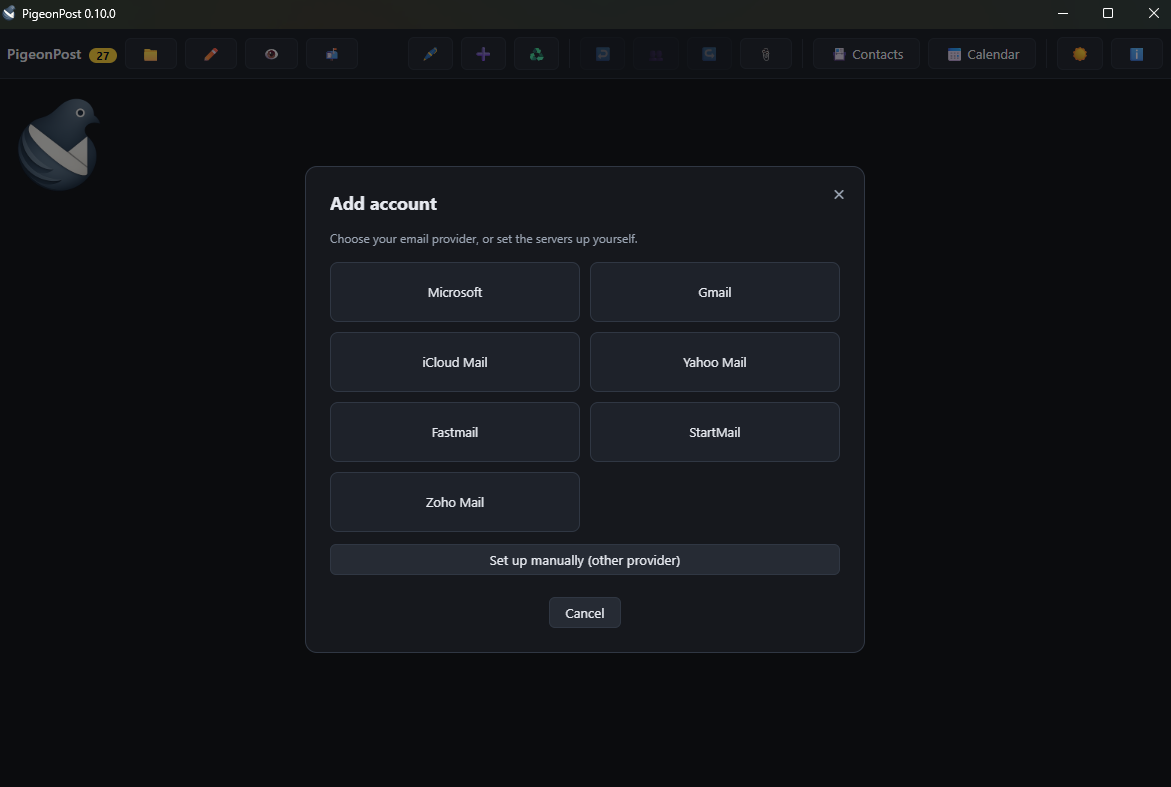
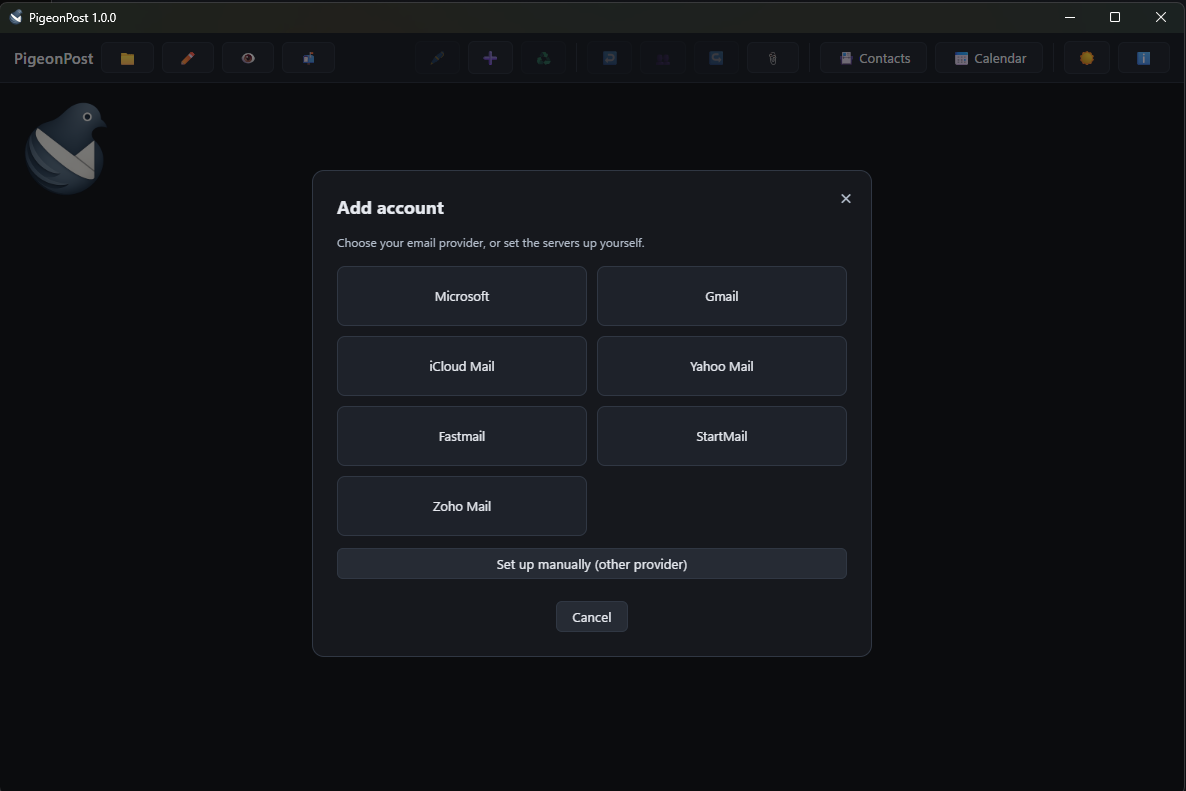
docs(site): SEO pass, structured data, social cards, sitemap

diff --git a/docs/index.html b/docs/index.html
@@ -3,10 +3,74 @@
 <head>
     <meta charset="UTF-8"/>
     <meta name="viewport" content="width=device-width, initial-scale=1.0"/>
-    <title>PigeonPost - a calmer email client you are never locked into</title>
+    <title>PigeonPost: free, open-source desktop email client for Windows, macOS and Linux</title>
     <meta name="description"
-          content="A calm, local-first desktop email, calendar and contacts client for people leaving Thunderbird or Outlook. Your email stays with your provider, so nothing is migrated in and nothing is stranded if you leave. GPL-3.0 and free."/>
+          content="A calm, free, open-source desktop email client with calendar and contacts for Windows, macOS and Linux. A predictable Thunderbird alternative that never locks you in: your mail stays with your provider and reads offline."/>
+    <link rel="canonical" href="https://pigeonpost.ink/"/>
+    <meta name="robots" content="index, follow"/>
+    <meta name="author" content="Oliver Ernster"/>
+    <meta name="theme-color" content="#16181d"/>
+    <meta property="og:type" content="website"/>
+    <meta property="og:site_name" content="PigeonPost"/>
+    <meta property="og:url" content="https://pigeonpost.ink/"/>
+    <meta property="og:title" content="PigeonPost: the calm, open-source email client that never locks you in"/>
+    <meta property="og:description"
+          content="Free desktop email, calendar and contacts for Windows, macOS and Linux. Local-first and private: your mail stays with your provider, searches instantly and reads offline."/>
+    <meta property="og:image" content="https://pigeonpost.ink/screenshots/add-account.png"/>
+    <meta property="og:locale" content="en_GB"/>
+    <meta name="twitter:card" content="summary_large_image"/>
+    <meta name="twitter:title" content="PigeonPost: the calm, open-source email client that never locks you in"/>
+    <meta name="twitter:description"
+          content="Free desktop email, calendar and contacts for Windows, macOS and Linux. Local-first and private: your mail stays with your provider, searches instantly and reads offline."/>
+    <meta name="twitter:image" content="https://pigeonpost.ink/screenshots/add-account.png"/>
     <link rel="icon" type="image/png" href="pigeonpost.png"/>
+    <script type="application/ld+json">
+    {
+        "@context": "https://schema.org",
+        "@type": "SoftwareApplication",
+        "name": "PigeonPost",
+        "operatingSystem": "Windows, macOS, Linux",
+        "applicationCategory": "CommunicationApplication",
+        "applicationSubCategory": "Email client",
+        "description": "A calm, local-first, free and open-source desktop email client with calendar and contacts for Windows, macOS and Linux. Your mail stays with your provider over IMAP or POP3, cached locally for instant offline search.",
+        "url": "https://pigeonpost.ink/",
+        "downloadUrl": "https://github.com/oernster/pigeonpost/releases",
+        "softwareHelp": "https://github.com/oernster/pigeonpost",
+        "license": "https://www.gnu.org/licenses/gpl-3.0.html",
+        "image": "https://pigeonpost.ink/pigeonpost.png",
+        "screenshot": "https://pigeonpost.ink/screenshots/add-account.png",
+        "offers": {"@type": "Offer", "price": "0", "priceCurrency": "USD"},
+        "author": {"@type": "Person", "name": "Oliver Ernster", "url": "https://github.com/oernster"}
+    }
+    </script>
+    <script type="application/ld+json">
+    {
+        "@context": "https://schema.org",
+        "@type": "FAQPage",
+        "mainEntity": [
+            {"@type": "Question", "name": "Will I have to migrate years of mail?",
+             "acceptedAnswer": {"@type": "Answer", "text": "No. PigeonPost talks to your existing account and caches a local copy. The mail itself never leaves your provider."}},
+            {"@type": "Question", "name": "What if I try it and want to go back?",
+             "acceptedAnswer": {"@type": "Answer", "text": "Then you close it and nothing has changed. Your accounts were never moved, so they are still live in your old client. Your calendar and contacts export back out in standard files."}},
+            {"@type": "Question", "name": "Does my Gmail or iCloud account work?",
+             "acceptedAnswer": {"@type": "Answer", "text": "Yes, through an app password. A wizard fills in the servers for Gmail, iCloud, Yahoo, Zoho, Fastmail and StartMail. Microsoft accounts (Outlook.com, Hotmail) sign in through Microsoft OAuth."}},
+            {"@type": "Question", "name": "Does a Google Workspace work account function?",
+             "acceptedAnswer": {"@type": "Answer", "text": "No. Workspace is OAuth-only, so an app password is refused by Google. Personal Gmail works with an app password."}},
+            {"@type": "Question", "name": "Is my Microsoft password safe?",
+             "acceptedAnswer": {"@type": "Answer", "text": "You sign in through Microsoft in your own browser, so PigeonPost never sees your password. It keeps your Microsoft sign-in token in your OS keychain."}},
+            {"@type": "Question", "name": "Can opening a message track me?",
+             "acceptedAnswer": {"@type": "Answer", "text": "No. HTML renders in a sandboxed frame that runs no scripts and makes no remote requests. Remote images stay blocked until you load them, so opening a message cannot tell the sender you read it."}},
+            {"@type": "Question", "name": "It is one developer. What if it stops?",
+             "acceptedAnswer": {"@type": "Answer", "text": "It is GPL-3.0 with the full source on GitHub, free to read, fork or continue. Your mail stays with your provider and your calendar and contacts live in standard files, so nothing is trapped."}},
+            {"@type": "Question", "name": "Does it work offline?",
+             "acceptedAnswer": {"@type": "Answer", "text": "Yes. Cached mail reads with no connection. Anything you write offline queues in a per-account outbox and delivers when you reconnect."}},
+            {"@type": "Question", "name": "Which platforms does it run on?",
+             "acceptedAnswer": {"@type": "Answer", "text": "Windows, macOS (Apple Silicon) and Linux, each with its own native installer: a Windows setup program, a DMG and a Flatpak."}},
+            {"@type": "Question", "name": "Will it choke on huge folders?",
+             "acceptedAnswer": {"@type": "Answer", "text": "No. The message list is virtualised and stays fluid in folders of tens of thousands of messages."}}
+        ]
+    }
+    </script>
     <style>
         :root {
             --bg: #16181d;
@@ -448,12 +512,12 @@
     <section class="hero">
         <img class="mark" src="pigeonpost.png" alt="PigeonPost icon"/>
         <span class="eyebrow">Coming from Thunderbird or Outlook?</span>
-        <h1>Your mail was never locked in</h1>
+        <h1>The email client that never locks you in</h1>
         <p class="tagline">
-            PigeonPost is a calm, local-first desktop client for email, calendar and contacts. Your email
-            stays where it already lives, with your provider (Gmail, Hotmail and Outlook.com, iCloud,
-            Fastmail and friends), so nothing has to move in and nothing is stranded if you leave. No cloud
-            in between. No account to create. No subscription.
+            PigeonPost is a calm, local-first desktop email client with a built-in calendar and contacts,
+            free and open source. Your email stays where it already lives, with your provider (Gmail,
+            Hotmail and Outlook.com, iCloud, Fastmail and friends), so nothing has to move in and nothing
+            is stranded if you leave. No cloud in between. No account to create. No subscription.
         </p>
         <p class="switch">Because your mail stays in your existing account, trying PigeonPost costs you
             nothing and leaving costs you nothing.</p>
@@ -653,7 +717,7 @@
         <div class="grid two">
             <div>
                 <div class="shot-frame">
-                    <img src="screenshots/compose.png"
+                    <img src="screenshots/compose.png" loading="lazy" decoding="async"
                          alt="The New message window: To, Cc, Bcc and Subject fields, a rich-text toolbar with a Template button, a signature in the body, plus Attach files, Save draft and Send buttons."/>
                 </div>
                 <p class="shot-cap">Writing a message: rich text with a signature, reusable templates and
@@ -661,7 +725,7 @@
             </div>
             <div>
                 <div class="shot-frame">
-                    <img src="screenshots/calendar.png"
+                    <img src="screenshots/calendar.png" loading="lazy" decoding="async"
                          alt="The calendar month view for July 2026, showing a multi-day Vacation event as one continuous bar spanning 13 to 22 July across two week rows, alongside single-day events with emoji categories."/>
                 </div>
                 <p class="shot-cap">The calendar: a multi-day event spans its days as one bar, alongside
@@ -760,7 +824,7 @@
     </section>
 
     <section class="section" id="compare">
-        <h2>An honest comparison</h2>
+        <h2>An honest comparison with Thunderbird and Outlook</h2>
         <p class="lead">Where PigeonPost sits next to two clients you may be leaving. Both are good tools.
             This stays factual, including where PigeonPost is behind.</p>
         <div class="compare-scroll">